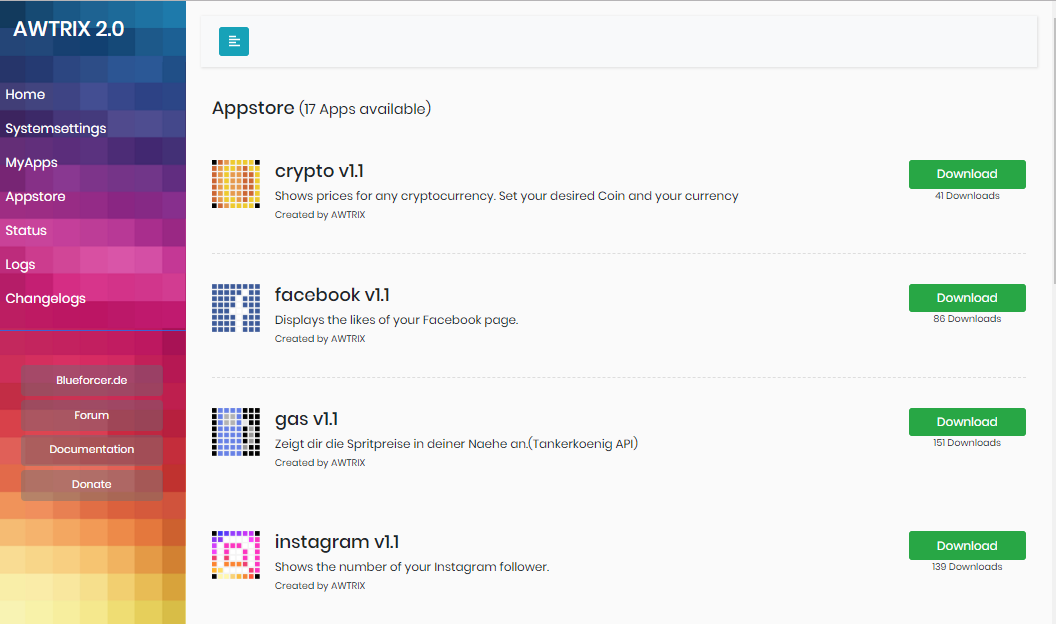
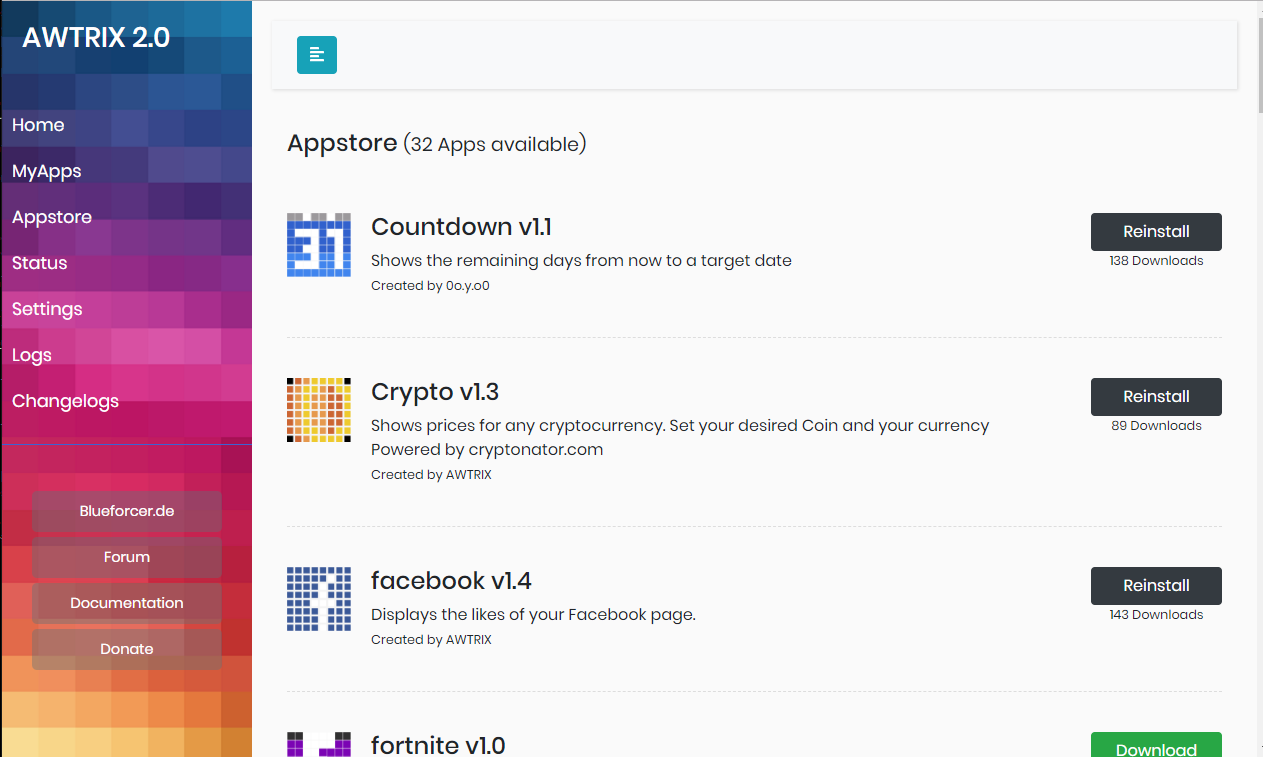
update

diff --git a/v2/web.md b/v2/web.md
@@ -5,7 +5,7 @@ The standard port is 7000.
 
 Here you can manage all your settings, manage your apps and download new one.
 
-![image alt text](assets/web.png)
+![image alt text](assets/appstore.png)
 
 ## **Systemsettings**
 Here you will find all relevant settings concerning the operation of AWTRIX.
@@ -90,34 +90,53 @@ However, if desired, the interval at which the app fetches new data can be force
 AWTRIX has its own appstore.  
 Here all tested apps are provided and can be downloaded or updated.  
 After a download you find this app in MyApps.  
- 
+
+<img src="v2/assets/Sunrise.png" height="36" width="36"> **Sunrise**  
+Shows sunset and sunrise times for a given location.  
+https://www.sunrise-sunset.org 
+
+<img src="v2/assets/GameOfLife.png" height="36" width="36"> **GameOfLife**  
+Conway's Game of Life  
+Internal App
+
+<img src="v2/assets/LookingEyes.png" height="36" width="36"> **LookingEyes**  
+Just some looking eyes :)   
+Internal App
+
+<img src="v2/assets/Matrix.png" height="36" width="36"> **Matrix**  
+Shows the popular Matrix animation.  
+Internal App
+
+<img src="v2/assets/PeopleInSpace.png" height="36" width="36"> **PeopleInSpace**  
+Shows how many people are in space right now.     
+https://www.howmanypeopleareinspacerightnow.com/ 
 
 <img src="v2/assets/mixer.png" height="36" width="36"> **mixer**  
-Shows your mixer subscriber count or your live viewers while youre streaming.   
+Shows your mixer subscriber count or your live viewers while youre streaming.     
 https://mixer.com/  
 
-<img src="v2/assets/openwaether.png" height="36" width="36"> **OpenWeather**  
-Shows the current temperature of your location.  
+<img src="v2/assets/OpenWeather.png" height="36" width="36"> **OpenWeather**  
+Shows the current temperature of your location.    
 https://openweathermap.org/  
 
 <img src="v2/assets/pr0gramm.png" height="36" width="36"> **pr0gramm**  
-Show the lenght of your Benis.   
+Show the lenght of your Benis.     
 https://pr0gramm.com  
 
-<img src="v2/assets/minecraft.png" height="36" width="36"> **Minecraft**  
+<img src="v2/assets/MinecraftServer.png" height="36" width="36"> **MinecraftServer**  
 Shows the player count of a Minecraft Server.  
 Only appears if the server is online.  
 https://www.minecraft.net  
 
-<img src="v2/assets/mystrom.png" height="36" width="36"> **mystrom**  
+<img src="v2/assets/MyStrom.png" height="36" width="36"> **mystrom**  
 Shows the state and power consumption of your MyStrom SmartPlug.  
 https://mystrom.com/  
 
-<img src="v2/assets/quitsmoking.png" height="36" width="36"> **QuitSmoking**  
+<img src="v2/assets/QuitSmoking.png" height="36" width="36"> **QuitSmoking**  
 Shows the days how long you don't smoke anymore.  
 Internal App  
 
-<img src="v2/assets/tronaldump.png" height="36" width="36"> **tronalddump**  
+<img src="v2/assets/TronaldDump.png" height="36" width="36"> **TronalDump**  
 Shows the dumbest things Donald Trump has ever said.  
 https://tronalddump.io  
 
@@ -125,7 +144,7 @@ https://tronalddump.io
 Shows the remaining days from now to a target date.  
 Internal App  
 
-<img src="v2/assets/crypto.png" height="36" width="36"> **crypto**  
+<img src="v2/assets/Crypto.png" height="36" width="36"> **Crypto**  
 Shows prices for any cryptocurrency. Set your desired Coin and your currency.   
 Internal App  
 

diff --git a/v2/api.md b/v2/api.md
@@ -8,7 +8,7 @@ For the REST API the base endpoint is
 
 e.g. for a simple test on Raspberry Pi curl can be used to submit a http request:  
 
-```curl --header "Content-Type: application/json" --request POST --data {"msgShort":"Dei Muddi"} http://[AWTRIX-SERVER_IP]:7000/api/v3/basics ```
+```curl --header "Content-Type: application/json" --request POST --data {"msgShort":"Hello World"} http://[AWTRIX-SERVER_IP]:7000/api/v3/basics ```
 
 ## Basic Controls
 
@@ -129,7 +129,7 @@ plays a audiofile wich was loaded to the DFPlayers sd-card
 the MP3 files need to copy as follow:  
 Folder Name(1-99); File Name(1-255)  
 e.g  
-Folder=15; File=4  
+Folder:15; File:4  
 =  
 SD:/15/004.mp3  
 ___

diff --git a/v2/electronics.md b/v2/electronics.md
@@ -15,11 +15,6 @@ Before soldering the socket for the power supply, screw it to the housing with 2
 ***Optional Gesture setup:***  
 ![image alt text](assets/AWTRIX_Gesture_Steckplatine.jpg)
 
-***Optional DFPlayer setup:***
-![image alt text](assets/AWTRIX_DFMini_Steckplatine.jpg)
-
-
-***Gesture control***  
 You can control AWTRIX with Hand gestures (Only switching between Apps for now) with a APDS-9960 Gesture Sensor
 Please keep in mind that the Housing is not prepared for mounting this sensor. You will have to do it by your own.
   

diff --git a/v2/trouble.md b/v2/trouble.md
@@ -4,6 +4,8 @@
 If you have trouble to compile the Firmware, try updateing platformio via the terminal  
 ```platformio update```   
 
+or with the menu:
+
 ![image alt text](assets/plattformio_update.jpg)  
   
   
